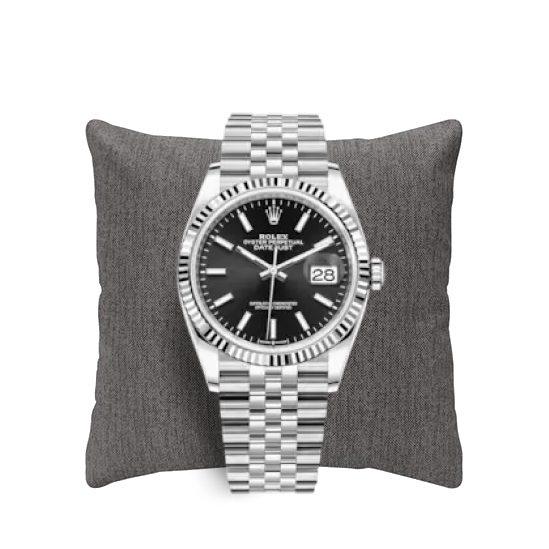
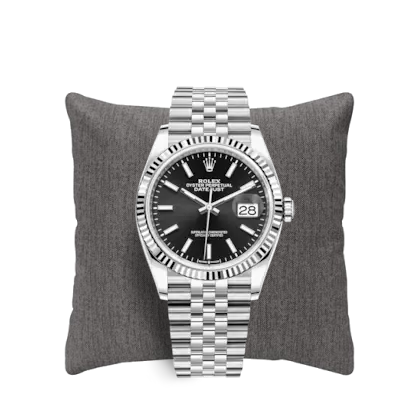
:lipstick: chore: replacing images with better pillows :)

diff --git a/mobile/src/screens/pillowScreen/index.js b/mobile/src/screens/pillowScreen/index.js
@@ -39,8 +39,8 @@ const styles = StyleSheet.create({
     flex: 1,
   },
   pillowImage: {
-    width: 300,
-    height: 300,
+    width: 240,
+    height: 240,
   },
   body: {
     flex: 1,
